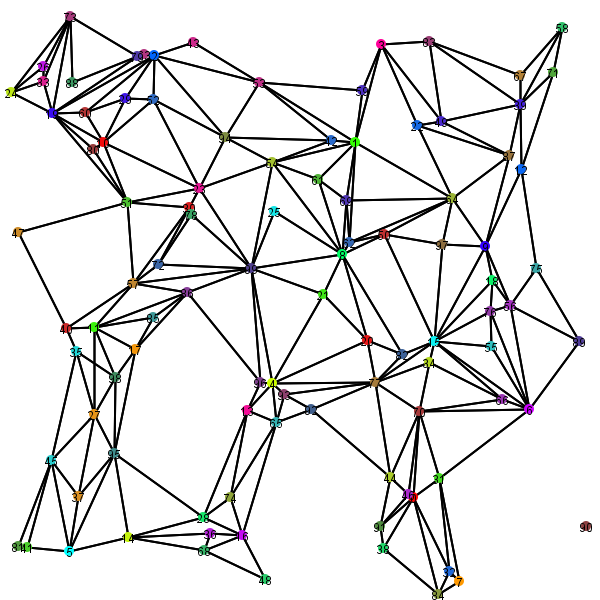
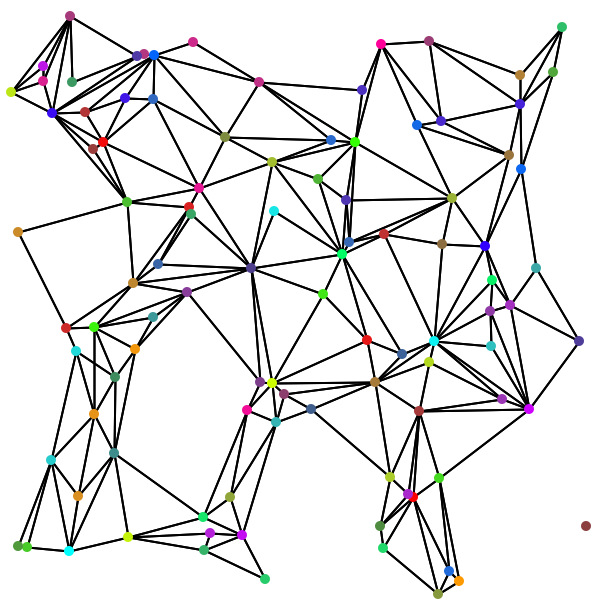
refactoring

diff --git a/lab5/src/main/java/mouse/univ/color/ColoredGraph.java b/lab5/src/main/java/mouse/univ/color/ColoredGraph.java
@@ -6,20 +6,12 @@ public class ColoredGraph {
 
     private final Set<ColoredVertex> coloredVertices;
 
-    public ColoredGraph() {
-        coloredVertices = new HashSet<>();
-    }
-
     public ColoredGraph(Collection<ColoredVertex> coloredVertices) {
         this.coloredVertices = new HashSet<>(coloredVertices);
     }
 
     public Set<ColoredVertex> getAllVertices() {
         return new HashSet<>(coloredVertices);
-    }
-
-    public void addVertex(ColoredVertex vertex) {
-        coloredVertices.add(vertex);
     }
 
     public Set<ColoredVertex> duplicate() {

diff --git a/lab5/src/main/java/mouse/univ/color/gui/Application.java b/lab5/src/main/java/mouse/univ/color/gui/Application.java
@@ -6,6 +6,6 @@ import mouse.univ.color.OrderedLocalMinimizationColoring;
 public class Application {
     public static void main(String[] args) {
         Coloring coloring = new OrderedLocalMinimizationColoring(2);
-        GUIPipeline.run(600, 600, 100, coloring, true);
+        GUIPipeline.run(600, 600, 100, coloring, false);
     }
 }
